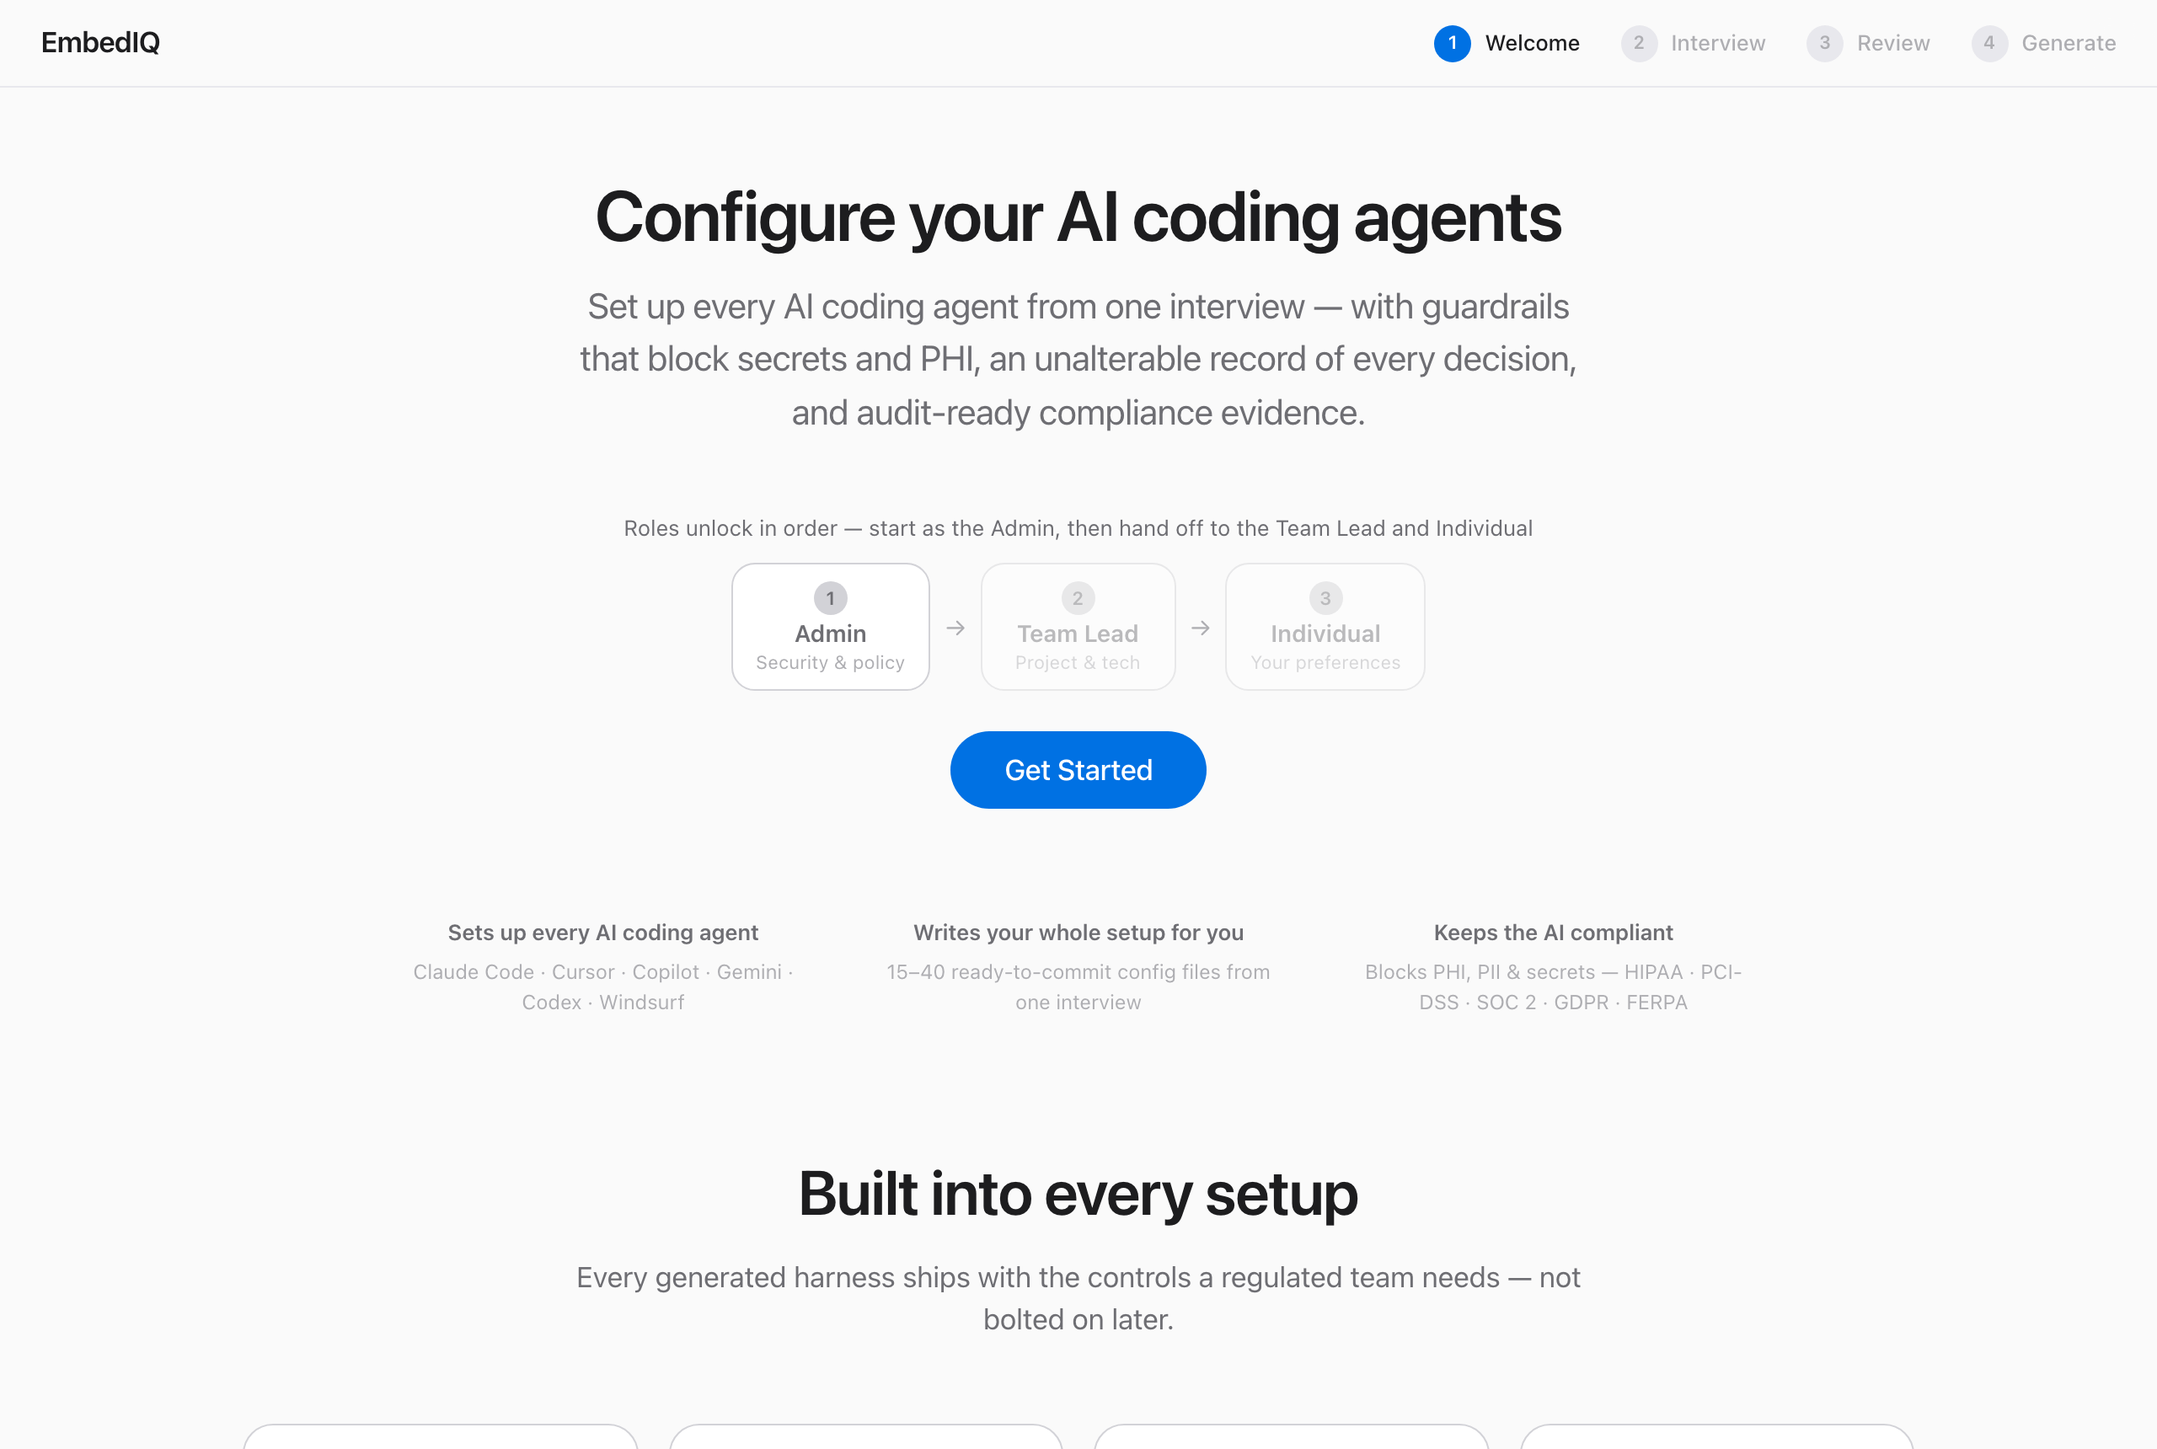
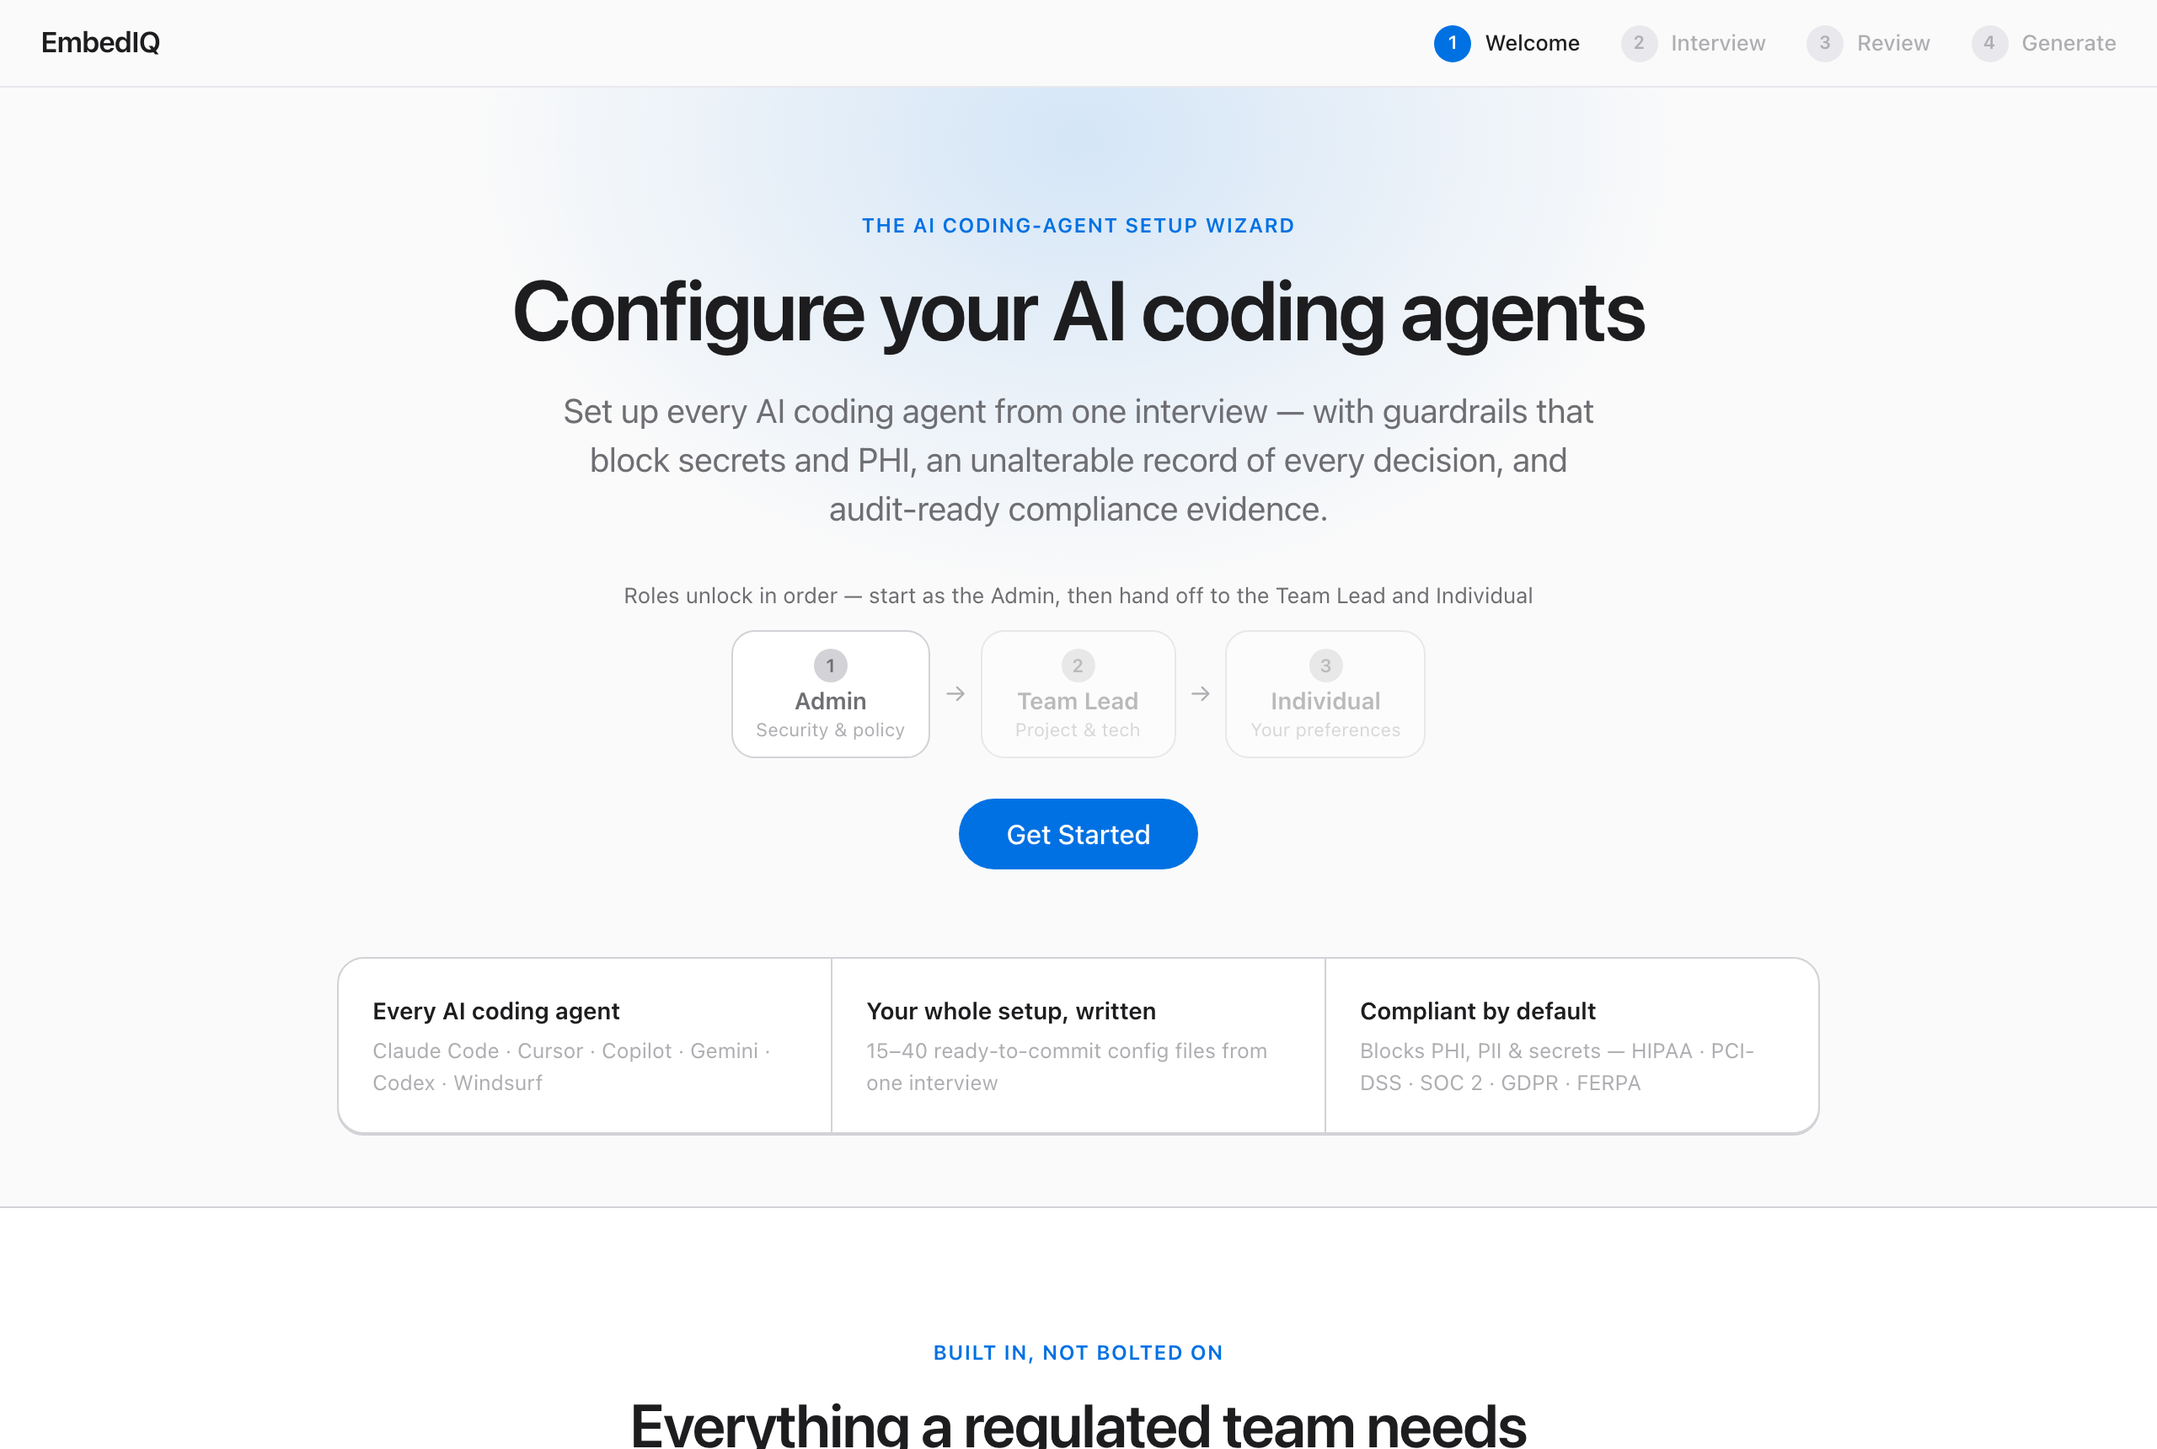
Landing redesign — cohesive Apple-style system

diff --git a/src/web/public/index.html b/src/web/public/index.html
@@ -43,53 +43,71 @@
 
     <!-- Phase 0: Welcome -->
     <section id="phase-welcome" class="phase active">
-      <div class="hero">
-        <h1>Configure your AI coding agents</h1>
-        <p class="subtitle">Set up every AI coding agent from one interview — with guardrails that block secrets and PHI, an unalterable record of every decision, and audit-ready compliance evidence.</p>
-        <div class="hero-meta">
-          <div class="meta-feature">
-            <span class="meta-feature-title">Sets up every AI coding agent</span>
-            <span class="meta-feature-detail">Claude Code · Cursor · Copilot · Gemini · Codex · Windsurf</span>
+      <header class="lp-hero">
+        <div class="lp-hero-glow" aria-hidden="true"></div>
+        <div class="lp-hero-inner">
+          <p class="lp-eyebrow">The AI coding-agent setup wizard</p>
+          <h1>Configure your AI coding agents</h1>
+          <p class="lp-subtitle">Set up every AI coding agent from one interview — with guardrails that block secrets and PHI, an unalterable record of every decision, and audit-ready compliance evidence.</p>
+          <div id="identity-banner" class="identity-banner" style="display: none;"></div>
+          <div id="resume-banner" class="resume-banner" style="display: none"></div>
+          <button class="btn-primary lp-cta" onclick="startWizard()">Get Started</button>
+          <ul class="lp-glance">
+            <li>
+              <span class="lp-glance-title">Every AI coding agent</span>
+              <span class="lp-glance-detail">Claude Code · Cursor · Copilot · Gemini · Codex · Windsurf</span>
+            </li>
+            <li>
+              <span class="lp-glance-title">Your whole setup, written</span>
+              <span class="lp-glance-detail">15–40 ready-to-commit config files from one interview</span>
+            </li>
+            <li>
+              <span class="lp-glance-title">Compliant by default</span>
+              <span class="lp-glance-detail">Blocks PHI, PII &amp; secrets — HIPAA · PCI-DSS · SOC 2 · GDPR · FERPA</span>
+            </li>
+          </ul>
+        </div>
+      </header>
+
+      <section class="lp-section lp-section--tint" aria-label="What's built into every setup">
+        <div class="lp-inner">
+          <div class="lp-head">
+            <p class="lp-eyebrow">Built in, not bolted on</p>
+            <h2>Everything a regulated team needs</h2>
+            <p class="lp-lead">Every generated harness ships with the controls your security team expects — from day one.</p>
           </div>
-          <div class="meta-feature">
-            <span class="meta-feature-title">Writes your whole setup for you</span>
-            <span class="meta-feature-detail">15–40 ready-to-commit config files from one interview</span>
-          </div>
-          <div class="meta-feature">
-            <span class="meta-feature-title">Keeps the AI compliant</span>
-            <span class="meta-feature-detail">Blocks PHI, PII &amp; secrets — HIPAA · PCI-DSS · SOC 2 · GDPR · FERPA</span>
+          <div class="lp-cards">
+            <article class="lp-card">
+              <span class="lp-card-icon"><svg viewBox="0 0 24 24" fill="none" stroke="currentColor" stroke-width="1.6" stroke-linecap="round" stroke-linejoin="round"><path d="M12 22s8-4 8-10V5l-8-3-8 3v7c0 6 8 10 8 10z"/><path d="m9 12 2 2 4-4"/></svg></span>
+              <h3>Guardrails</h3>
+              <p>Blocks the agent from leaking secrets, PHI &amp; PII, running risky shell commands, or reaching the open internet — enforced automatically, not left to each developer to remember on every prompt.</p>
+            </article>
+            <article class="lp-card">
+              <span class="lp-card-icon"><svg viewBox="0 0 24 24" fill="none" stroke="currentColor" stroke-width="1.6" stroke-linecap="round" stroke-linejoin="round"><rect x="4" y="11" width="16" height="10" rx="2"/><path d="M8 11V7a4 4 0 0 1 8 0v4"/></svg></span>
+              <h3>Enforced sandboxing <span class="lp-tag">Claude Code</span></h3>
+              <p>Optionally locks the agent into the OS's native sandbox, delivered fleet-wide via MDM so it can't be switched off locally — plus dev-container and VDI options for stricter isolation.</p>
+            </article>
+            <article class="lp-card">
+              <span class="lp-card-icon"><svg viewBox="0 0 24 24" fill="none" stroke="currentColor" stroke-width="1.6" stroke-linecap="round" stroke-linejoin="round"><path d="M9 17H7A5 5 0 0 1 7 7h2"/><path d="M15 7h2a5 5 0 0 1 0 10h-2"/><line x1="8" y1="12" x2="16" y2="12"/></svg></span>
+              <h3>Tamper-evident audit trail</h3>
+              <p>Every decision is written to a hash-chained log. Alter or delete a past entry and the chain breaks — a verifier flags it — so the configuration history can't be quietly rewritten.</p>
+            </article>
+            <article class="lp-card">
+              <span class="lp-card-icon"><svg viewBox="0 0 24 24" fill="none" stroke="currentColor" stroke-width="1.6" stroke-linecap="round" stroke-linejoin="round"><path d="M14 2H6a2 2 0 0 0-2 2v16a2 2 0 0 0 2 2h12a2 2 0 0 0 2-2V8z"/><path d="M14 2v6h6"/><path d="m9 15 2 2 4-4"/></svg></span>
+              <h3>Audit-ready evidence</h3>
+              <p>Generates machine-readable compliance evidence (NIST OSCAL, AI bill-of-materials) that your security team's and auditors' tools can consume directly — turning “we have rules” into proof.</p>
+            </article>
           </div>
         </div>
-        <div id="identity-banner" class="identity-banner" style="display: none;"></div>
-        <div id="resume-banner" class="resume-banner" style="display: none"></div>
-        <button class="btn-primary" onclick="startWizard()">Get Started</button>
-      </div>
+      </section>
 
-      <section class="built-in" aria-label="What's built into every setup">
-        <h2 class="built-in-title">Built into every setup</h2>
-        <p class="built-in-sub">Every generated harness ships with the controls a regulated team needs — not bolted on later.</p>
-        <div class="built-in-grid">
-          <article class="built-in-card">
-            <h3>Guardrails</h3>
-            <p>Blocks the agent from leaking secrets, PHI &amp; PII, running risky shell commands, or reaching the open internet — enforced automatically, not left to each developer to remember on every prompt.</p>
-          </article>
-          <article class="built-in-card">
-            <h3>Enforced sandboxing</h3>
-            <p>Optionally locks the agent into the OS's native sandbox, delivered fleet-wide via MDM so it can't be switched off locally — plus dev-container and VDI options for stricter isolation. <span class="built-in-note">Claude Code</span></p>
-          </article>
-          <article class="built-in-card">
-            <h3>Tamper-evident audit trail</h3>
-            <p>Every decision is written to a hash-chained log. Alter or delete a past entry and the chain breaks — a verifier flags it — so the configuration history can't be quietly rewritten.</p>
-          </article>
-          <article class="built-in-card">
-            <h3>Audit-ready evidence</h3>
-            <p>Generates machine-readable compliance evidence (NIST OSCAL, AI bill-of-materials) that your security team's and auditors' tools can consume directly — turning “we have rules” into proof.</p>
-          </article>
-        </div>
-
-        <div class="iso-detail">
-          <h3 class="iso-detail-title">How agent isolation &amp; sandboxing actually works</h3>
-          <p class="iso-detail-lead">It's a handoff: <strong>EmbedIQ generates</strong> the enforcement config; your <strong>deployment environment</strong> and <strong>MDM</strong> enforce it. EmbedIQ is not itself a sandbox.</p>
+      <section class="lp-section" aria-label="How agent isolation and sandboxing works">
+        <div class="lp-inner lp-inner--narrow">
+          <div class="lp-head">
+            <p class="lp-eyebrow">Full transparency</p>
+            <h2>How agent isolation &amp; sandboxing actually works</h2>
+            <p class="lp-lead">It's a handoff: <strong>EmbedIQ generates</strong> the enforcement config; your <strong>deployment environment</strong> and <strong>MDM</strong> enforce it. EmbedIQ is not itself a sandbox.</p>
+          </div>
           <ol class="iso-steps">
             <li><strong>You choose the deployment environment + posture</strong> <span class="iso-who">admin, once</span><br>Where the agent runs — a managed laptop, a dev container, a virtual desktop (Azure Virtual Desktop / Windows 365), or an ephemeral cloud dev box. That choice <em>is</em> the isolation boundary.</li>
             <li><strong>EmbedIQ generates the config</strong> <span class="iso-who">EmbedIQ</span><br><code>deploy/claude-code/managed-settings.json</code> with <code>"sandbox": { "enabled": true }</code> and a non-wideable deny list (no PHI/PII path reads, no raw egress), plus a <code>.devcontainer</code> for the container posture.</li>
@@ -116,6 +134,14 @@
             </div>
           </div>
           <p class="iso-more">Deeper detail: <a href="https://github.com/asq-sheriff/embediq/blob/main/docs/evaluators/isolation-decision-guide.md">isolation decision guide</a> · <a href="https://github.com/asq-sheriff/embediq/blob/main/docs/operator-guide/azure-isolation-runbook.md">Azure / Intune runbook</a>.</p>
+        </div>
+      </section>
+
+      <section class="lp-final">
+        <div class="lp-inner">
+          <h2>Production-ready in one interview.</h2>
+          <p>Answer a few questions and walk away with a compliant, ready-to-commit setup for every agent your team uses.</p>
+          <button class="btn-primary" onclick="startWizard()">Get Started</button>
         </div>
       </section>
     </section>

diff --git a/src/web/public/style.css b/src/web/public/style.css
@@ -897,6 +897,196 @@ body {
   .iso-detail { padding: 28px 22px; }
 }
 
+/* ═══════════════════════════════════════════════════════════════
+   Landing page — cohesive Apple-style system (welcome phase)
+   ═══════════════════════════════════════════════════════════════ */
+
+.lp-eyebrow {
+  font-size: 12px;
+  font-weight: 600;
+  letter-spacing: 0.06em;
+  text-transform: uppercase;
+  color: var(--accent);
+  margin: 0 0 14px;
+}
+
+/* ─── Hero ─── */
+.lp-hero {
+  position: relative;
+  overflow: hidden;
+  text-align: center;
+  padding: clamp(52px, 8.5vh, 104px) 24px clamp(36px, 5vh, 64px);
+}
+.lp-hero-glow {
+  position: absolute;
+  top: -260px;
+  left: 50%;
+  width: 780px;
+  height: 580px;
+  max-width: 120vw;
+  transform: translateX(-50%);
+  background: radial-gradient(ellipse at center,
+    color-mix(in srgb, var(--accent) 15%, transparent), transparent 66%);
+  pointer-events: none;
+  z-index: 0;
+}
+.lp-hero-inner {
+  position: relative;
+  z-index: 1;
+  max-width: 880px;
+  margin: 0 auto;
+}
+.lp-hero-inner > * {
+  animation: heroReveal 0.7s cubic-bezier(0.16, 1, 0.3, 1) both;
+}
+.lp-hero-inner > .lp-eyebrow { animation-delay: 0.02s; }
+.lp-hero-inner > h1 { animation-delay: 0.06s; }
+.lp-hero-inner > .lp-subtitle { animation-delay: 0.10s; }
+.lp-hero-inner > .identity-banner { animation-delay: 0.16s; }
+.lp-hero-inner > .lp-cta { animation-delay: 0.20s; }
+.lp-hero-inner > .lp-glance { animation-delay: 0.28s; }
+@media (prefers-reduced-motion: reduce) { .lp-hero-inner > * { animation: none; } }
+
+.lp-hero h1 {
+  font-size: clamp(34px, 4.6vw, 50px);
+  font-weight: 600;
+  letter-spacing: -0.03em;
+  line-height: 1.08;
+  color: var(--text-primary);
+  margin: 0 0 18px;
+}
+.lp-subtitle {
+  font-size: clamp(17px, 1.7vw, 20px);
+  line-height: 1.45;
+  color: var(--text-secondary);
+  max-width: 620px;
+  margin: 0 auto 28px;
+}
+.lp-hero .identity-banner { margin: 6px auto 24px; max-width: 600px; }
+.lp-cta { margin: 0; }
+
+/* glance strip */
+.lp-glance {
+  list-style: none;
+  margin: 52px auto 0;
+  padding: 0;
+  max-width: 900px;
+  display: grid;
+  grid-template-columns: repeat(3, 1fr);
+  gap: 1px;
+  background: var(--border);
+  border: 1px solid var(--border);
+  border-radius: 16px;
+  overflow: hidden;
+  text-align: left;
+}
+.lp-glance li {
+  background: var(--surface);
+  padding: 20px 20px;
+  display: flex;
+  flex-direction: column;
+  gap: 5px;
+}
+.lp-glance-title { font-size: 14px; font-weight: 600; color: var(--text-primary); }
+.lp-glance-detail { font-size: 12.5px; line-height: 1.5; color: var(--text-tertiary); }
+
+/* ─── Sections ─── */
+.lp-section { padding: clamp(60px, 9vh, 108px) 24px; }
+.lp-section--tint {
+  background: var(--surface);
+  border-top: 1px solid var(--border);
+  border-bottom: 1px solid var(--border);
+}
+.lp-inner { max-width: 1040px; margin: 0 auto; }
+.lp-inner--narrow { max-width: 880px; }
+.lp-head { text-align: center; max-width: 680px; margin: 0 auto 44px; }
+.lp-head h2 {
+  font-size: clamp(26px, 3vw, 36px);
+  font-weight: 600;
+  letter-spacing: -0.025em;
+  line-height: 1.12;
+  color: var(--text-primary);
+  margin: 0 0 12px;
+}
+.lp-lead { font-size: 17px; line-height: 1.5; color: var(--text-secondary); margin: 0; }
+
+/* ─── Feature cards ─── */
+.lp-cards {
+  display: grid;
+  grid-template-columns: repeat(auto-fit, minmax(232px, 1fr));
+  gap: 18px;
+}
+.lp-card {
+  background: var(--bg);
+  border: 1px solid var(--border);
+  border-radius: 20px;
+  padding: 28px 24px;
+  transition: transform var(--transition), border-color var(--transition), box-shadow var(--transition);
+}
+.lp-card:hover {
+  transform: translateY(-3px);
+  border-color: color-mix(in srgb, var(--accent) 38%, var(--border));
+  box-shadow: 0 16px 36px -20px rgba(0, 0, 0, 0.35);
+}
+.lp-card-icon {
+  display: inline-flex;
+  align-items: center;
+  justify-content: center;
+  width: 44px;
+  height: 44px;
+  border-radius: 13px;
+  background: color-mix(in srgb, var(--accent) 12%, var(--surface));
+  color: var(--accent);
+  margin-bottom: 16px;
+}
+.lp-card-icon svg { width: 22px; height: 22px; }
+.lp-card h3 {
+  font-size: 17px;
+  font-weight: 600;
+  color: var(--text-primary);
+  margin: 0 0 8px;
+}
+.lp-card p { font-size: 13.5px; line-height: 1.55; color: var(--text-secondary); margin: 0; }
+.lp-tag {
+  font-size: 10px;
+  font-weight: 600;
+  text-transform: uppercase;
+  letter-spacing: 0.04em;
+  color: var(--accent);
+  border: 1px solid color-mix(in srgb, var(--accent) 35%, var(--border));
+  border-radius: 980px;
+  padding: 1px 7px;
+  margin-left: 6px;
+  vertical-align: middle;
+  white-space: nowrap;
+}
+
+/* ─── Closing CTA band ─── */
+.lp-final {
+  text-align: center;
+  padding: clamp(60px, 8.5vh, 100px) 24px;
+  background: var(--surface);
+  border-top: 1px solid var(--border);
+}
+.lp-final h2 {
+  font-size: clamp(26px, 3vw, 36px);
+  font-weight: 600;
+  letter-spacing: -0.025em;
+  color: var(--text-primary);
+  margin: 0 0 12px;
+}
+.lp-final p {
+  font-size: 17px;
+  line-height: 1.5;
+  color: var(--text-secondary);
+  max-width: 540px;
+  margin: 0 auto 28px;
+}
+
+@media (max-width: 720px) {
+  .lp-glance { grid-template-columns: 1fr; max-width: 440px; }
+}
+
 .demo-badge {
   display: inline-block;
   font-size: 9px;
